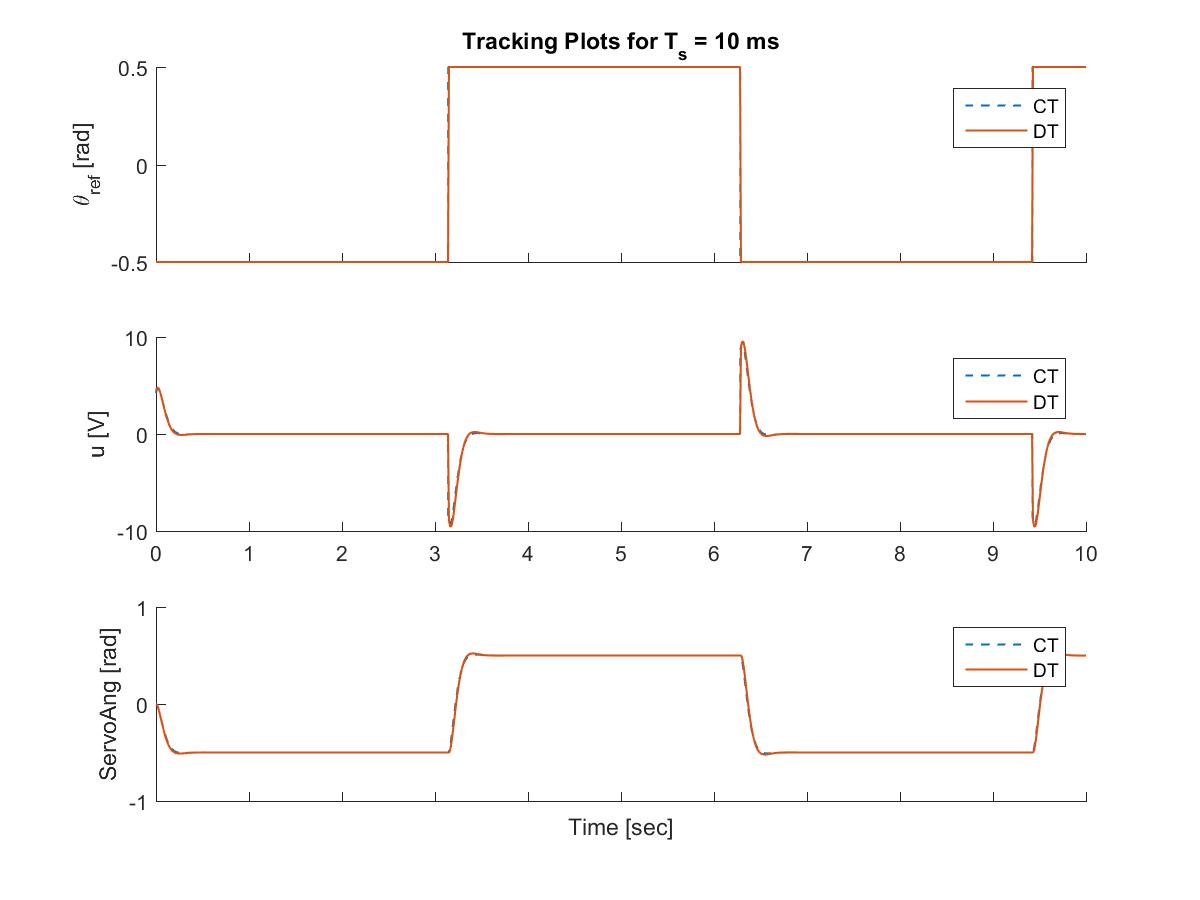
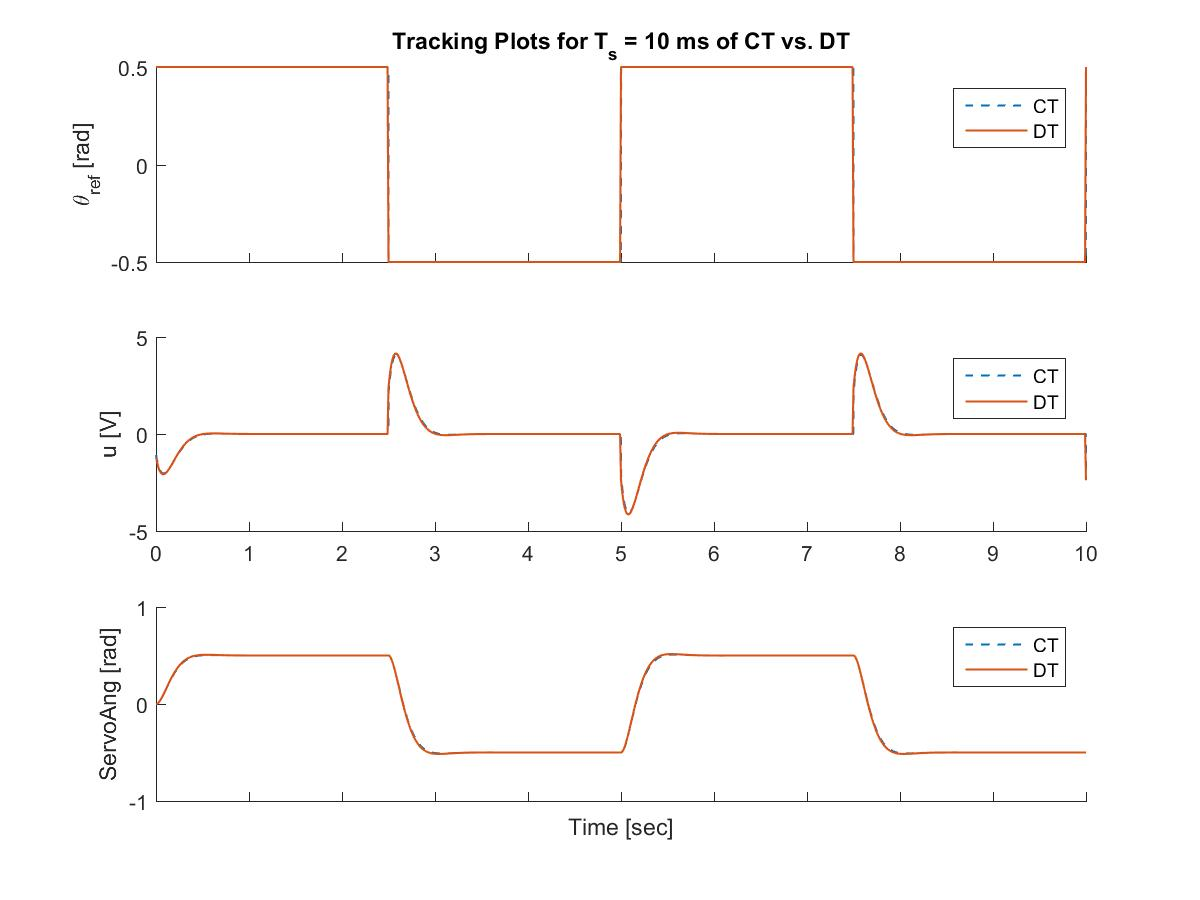
Tracking plots, add outer loop Simulink L2g

diff --git a/Lab2/MATLAB/L2g.m b/Lab2/MATLAB/L2g.m
@@ -1,0 +1,59 @@
+% Lab 2, Part A
+
+clear; close all; clc;
+
+% Motor params
+tau = 0.023;
+K1 = - 1.02/tau;
+
+% Place further into LHP, vary %OS
+Tset = 0.5;
+OS = 1;
+
+% DT simlation parameters
+ms = 1;
+Ts = ms*1E-3;
+ncyc = 2;
+Nsamp = 10E3;
+fhz = ncyc/(Nsamp*Ts);
+
+% Pole placement for C1(s)
+theta.rad = atan((-1/pi)*log(OS/100));
+theta.deg = theta.rad*180/pi;
+Re = 4/Tset;
+Im = (4/Tset)./ tan(theta.rad);
+p1 = 1/ tau;
+p2 = complex(-Re,Im);
+p3 = complex(-Re,-Im);
+g0 = 2*Re;
+K = (Re.^2 + Im.^2)/K1;
+s = tf('s');
+P = (K1)/(s*(s+p1));
+C = K*((s+p1)/(s+g0));
+
+% Part b, emulation of C1(s) with trapzoidal rule
+Tz = c2d(C, Ts,'tustin');
+format long
+[num,den] = tfdata(Tz,'v');
+
+% Controller coefficients for LabVIEW
+a = num(1);
+b = num(2);
+c = den(1);
+d = den(2);
+c1 = -d/c;
+c2 = a/c;
+c3 = b/c;
+
+% Gains
+r = 2.54;
+L = 41.7;
+R = 1.27; 
+m = 0.064;
+g = 9.81;
+D = 0.5;
+l = R - D;
+
+K2 = r/L;
+%K3 = (5*(l^2)*g)/(7*(R^2));
+K3 = 7;

diff --git a/Lab2/MATLAB/L2a.m b/Lab2/MATLAB/L2a.m
@@ -54,20 +54,18 @@ title('Step Response')
 legend(lgnd);
 print(1,'-djpeg','Plots\Step_pvar');
 
-
 % Simulate CT controller C1(s)
 sim('Simulink\Model_2a');
 ct.ref = ref;
 ct.u = u;
 ct.ang = ServoAng;
 clear tout ref ThRef u ServoAng
-save_system('Simulink\Model_2a');
-close_system('Simulink\Model_2a');
 
 % Part b, emulation of C1(s) with trapzoidal rule
 Tz = c2d(C(2), Ts,'tustin');
 format long
 [num,den] = tfdata(Tz,'v');
+
 % Controller coefficients for LabVIEW
 a = num(1);
 b = num(2);
@@ -83,8 +81,6 @@ dt.ref = ref;
 dt.u = u;
 dt.ang = ServoAng;
 clear tout ref ThRef u ServoAng
-% save_system('Simulink\Model_2b');
-% close_system('Simulink\Model_2b');
 
 % Experimental data
 exp.ref = xlsread('N:\GitHub\ECE481\Lab2\Exp Data\06-22-17\ThRef.xlsx');
